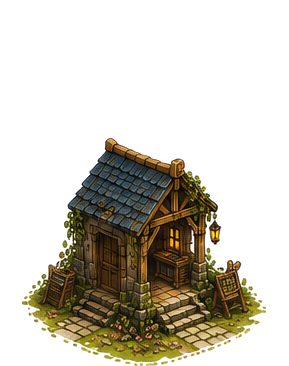
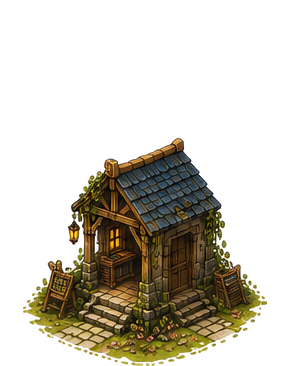
feat(map): user-directed town re-lay + mirrored library/lighthouse
- cottage->old market plot, bakery->old cottage, farm->old bakery, library->old farm (sprite set MIRRORED so the door faces right/into town), market->old library plot
- townhall<->workshop swapped (workshop a touch lower, 0.755)
- well up+right to 0.48/0.53, clear of its neighbours
- lighthouse up to the east point's edge (0.955/0.655), sprite set MIRRORED so the keeper's door faces the land; rock base meets the shore rocks, waterline on the sea
- verified with a full PIL plate composite: spacing clean, every building on matching ground

Changed region(s): [[0.0623, 0.3607, 0.9343, 1.0]]

diff --git a/src/data/town-layout.ts b/src/data/town-layout.ts
@@ -34,14 +34,17 @@ export interface TownPiece {
  */
 export const TOWN_BUILDINGS: readonly TownPiece[] = [
   { art: 'prop_sign', x: 0.51, y: 0.47, w: 0.042, unlockAt: 1 },
-  { art: 'town_cottage', x: 0.305, y: 0.445, w: 0.148, unlockAt: 2, smoke: { dx: 0.18, dy: -0.72 }, ruinVariant: 0 },
-  { art: 'town_bakery', x: 0.655, y: 0.37, w: 0.138, unlockAt: 4, smoke: { dx: -0.2, dy: -0.78 }, ruinVariant: 2 },
-  { art: 'prop_well', x: 0.465, y: 0.56, w: 0.092, unlockAt: 6 },
-  { art: 'town_market', x: 0.44, y: 0.375, w: 0.138, unlockAt: 8, ruinVariant: 7 },
+  // 2026-07 re-lay (user-directed): cottage→old market plot, bakery→old cottage
+  // plot, farm→old bakery plot, library→old farm plot (sprite flipped so the
+  // door faces right/into town), market→old library plot, townhall↔workshop.
+  { art: 'town_cottage', x: 0.44, y: 0.375, w: 0.148, unlockAt: 2, smoke: { dx: 0.18, dy: -0.72 }, ruinVariant: 0 },
+  { art: 'town_bakery', x: 0.305, y: 0.445, w: 0.138, unlockAt: 4, smoke: { dx: -0.2, dy: -0.78 }, ruinVariant: 2 },
+  { art: 'prop_well', x: 0.48, y: 0.53, w: 0.092, unlockAt: 6 },
+  { art: 'town_market', x: 0.54, y: 0.64, w: 0.138, unlockAt: 8, ruinVariant: 7 },
   { art: 'town_garden', x: 0.715, y: 0.515, w: 0.148, unlockAt: 10, ruinVariant: 4 },
-  { art: 'town_townhall', x: 0.235, y: 0.735, w: 0.148, unlockAt: 12, ruinVariant: 3 },
-  { art: 'town_workshop', x: 0.15, y: 0.39, w: 0.138, unlockAt: 15, smoke: { dx: 0.16, dy: -0.75 }, ruinVariant: 1 },
-  { art: 'town_farm', x: 0.19, y: 0.59, w: 0.148, unlockAt: 16, ruinVariant: 5 },
+  { art: 'town_townhall', x: 0.15, y: 0.39, w: 0.148, unlockAt: 12, ruinVariant: 3 },
+  { art: 'town_workshop', x: 0.235, y: 0.755, w: 0.138, unlockAt: 15, smoke: { dx: 0.16, dy: -0.75 }, ruinVariant: 1 },
+  { art: 'town_farm', x: 0.655, y: 0.37, w: 0.148, unlockAt: 16, ruinVariant: 5 },
   // Joss's hut is a stilted pier: it sits on the SE point with its deck over the
   // bay water, connected to land only at the house body (back). Anchor is
   // intentionally over water so the sprite's own water blends with the plate.
@@ -51,7 +54,7 @@ export const TOWN_BUILDINGS: readonly TownPiece[] = [
   // the dock pier sits up at the bay's north-west shore so its own water meets
   // the plate's bay, not the grass
   { art: 'town_dock', x: 0.645, y: 0.71, w: 0.126, unlockAt: 22, ruinVariant: 5 },
-  { art: 'town_library', x: 0.54, y: 0.64, w: 0.148, unlockAt: 23, ruinVariant: 3 },
+  { art: 'town_library', x: 0.19, y: 0.59, w: 0.148, unlockAt: 23, ruinVariant: 3 },
 ] as const;
 
 /**

diff --git a/src/ui/map-view.ts b/src/ui/map-view.ts
@@ -1843,8 +1843,9 @@ export class MapView {
       const img = this.sprite(artId) ?? this.sprite('prop_lighthouse');
       // Off the east point, standing in the sea clear of the fisher hut — its
       // own rock base sits over open water, not up on the green land plate.
-      const lx = W * 0.95;
-      const baseY = H * 0.72;
+      // Sprites are mirrored on disk so the keeper's door faces the land.
+      const lx = W * 0.955;
+      const baseY = H * 0.655;
       if (img) {
         // the new painted lighthouse is a tall portrait sprite with its own rock
         // base, so it's narrower than the old near-square art (0.23 dwarfed the map).
